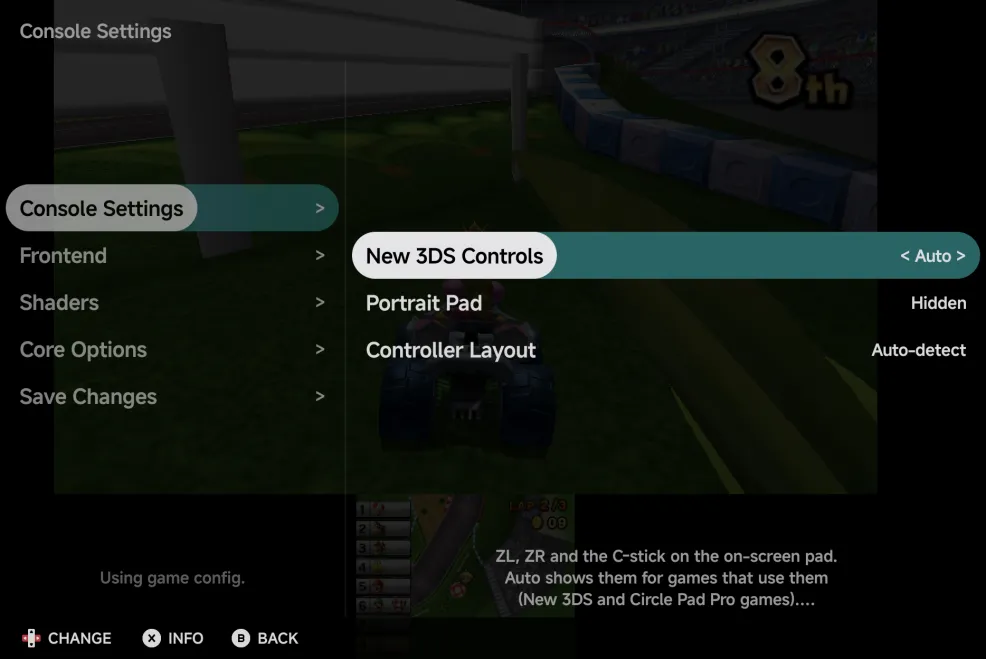
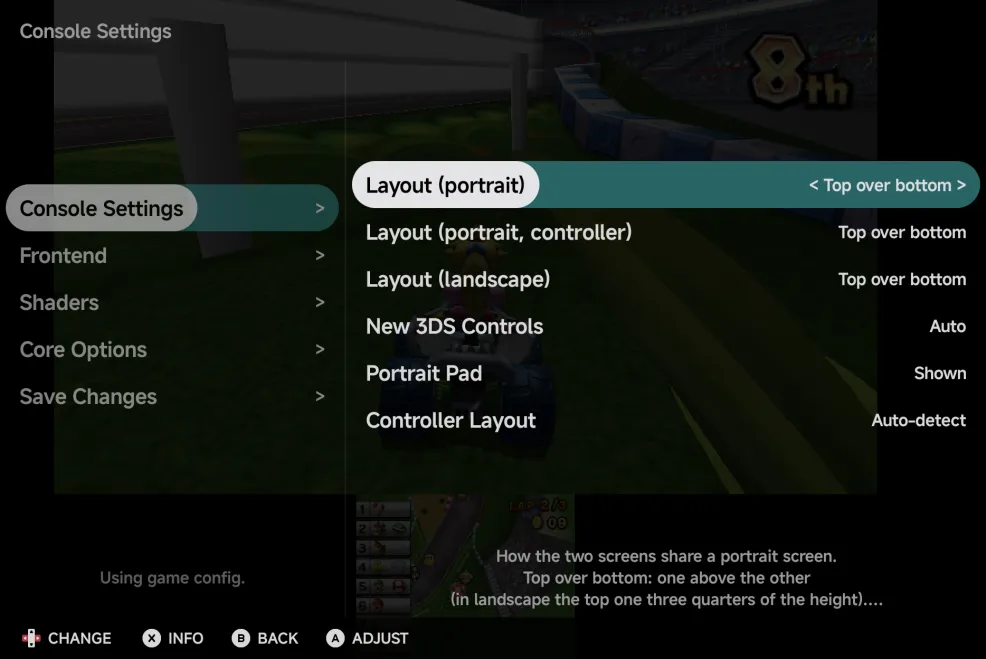
docs(mobile): 3DS layout per orientation, as on the DS
The 3DS Console Settings table and screenshot gain Layout (portrait),
Layout (portrait, controller) and Layout (landscape); Screen layouts says
each orientation keeps its own and SELECT + LEFT / RIGHT changes the one in
use; Azahar's Screen Layout core option is now locked. The in-game menu and
Emulator Settings lists include the 3DS layout rows.

diff --git a/docs/mobile/emulators/nintendo-3ds.md b/docs/mobile/emulators/nintendo-3ds.md
@@ -49,7 +49,7 @@ the 3DS's own `ZL` and `ZR`:
 | --- | --- |
 | `SELECT` + `R1`, or **SWAP** | Swap the screens. |
 | `SELECT` + `L1`, or **STYLUS** | Turn stylus mode on or off. |
-| `SELECT` + `LEFT` / `RIGHT` | Change the layout: **Top over bottom**, **Large screen**, **Side by side**, **Single screen**, and round again. |
+| `SELECT` + `LEFT` / `RIGHT` | Change the layout of the orientation you're in: **Top over bottom**, **Large screen**, **Side by side**, **Single screen**, and round again. |
 | `SELECT` + `START`, or `MENU` | Open the [in-game menu](../in-game-menu.md). |
 
 A controller adds:
@@ -88,10 +88,13 @@ Settings**, and for the console in
 value; keep it for the game or the console with
 [Save Changes](../in-game-menu.md#save-changes).
 
-![Console Settings of a 3DS game in landscape: New 3DS Controls, Portrait Pad and Controller Layout](../../assets/screenshots/mobile/3ds-console-settings.webp){ .nx-wide }
+![Console Settings of a 3DS game in landscape: the three Layout rows, New 3DS Controls, Portrait Pad and Controller Layout](../../assets/screenshots/mobile/3ds-console-settings.webp){ .nx-wide }
 
 | Row | Values | Default | See |
 | --- | --- | --- | --- |
+| **Layout (portrait)** | Top over bottom, Large screen, Side by side, Single screen | Top over bottom | [Screen layouts](#screen-layouts) |
+| **Layout (portrait, controller)** | The same | Top over bottom | [Screen layouts](#screen-layouts) |
+| **Layout (landscape)** | The same | Top over bottom | [Screen layouts](#screen-layouts) |
 | **New 3DS Controls** | Auto, On, Off | Auto | [New 3DS controls](#new-3ds-controls) |
 | **Portrait Pad** | Shown, Hidden | Shown | [Portrait pad](#portrait-pad) |
 | **Controller Layout** | Auto-detect, Xbox (A at the bottom), Nintendo (A on the right) | Auto-detect | [Controls](../controls.md#controller-buttons) |
@@ -117,8 +120,13 @@ Settings (see [Graphics API](index.md#graphics-api)).
 The pictures are in portrait; landscape draws the same layouts across the
 wider screen. **SWAP** (or `SELECT` + `R1`) swaps which screen is the big
 or upper one, in every layout.
-`SELECT` + `LEFT` / `RIGHT` saves the layout for the game straight away,
-without Save Changes.
+
+As on the DS, each orientation keeps its own layout: **Layout (portrait)**
+and **Layout (landscape)** in [Console Settings](#console-settings), all
+**Top over bottom** by default. With a controller connected the on-screen
+pad goes away in portrait and **Layout (portrait, controller)** is used.
+`SELECT` + `LEFT` / `RIGHT` changes the one you're in and saves it for the
+game straight away, without Save Changes.
 
 ### Portrait pad
 
@@ -135,9 +143,8 @@ Touch follows the [touch rule](#touch): swap the bottom screen up with
 controller connected the buttons hide.
 
 ??? info "More detail"
-    - The layout is Azahar's **Screen Layout** option, so you can also set it
-      in **Core Options**, or for the console in
-      [Emulator Settings](../emulator-settings.md).
+    - The app sets Azahar's own **Screen Layout** option from the layout rows,
+      so in **Core Options** it shows locked.
     - **Screen Swap Mode** in **Core Options** sets whether the swap toggles
       (the default) or lasts only while you hold the buttons.
 

diff --git a/docs/mobile/in-game-menu.md b/docs/mobile/in-game-menu.md
@@ -155,7 +155,7 @@ The console's own rows. `LEFT` / `RIGHT` change a value.
 | --- | --- | --- | --- |
 | **Controller Type** | Sega Genesis, Sega CD, 32X | Auto, 3 buttons, 6 buttons | Auto |
 | **Controller Layout** | Every console | Auto-detect, Xbox (A at the bottom), Nintendo (A on the right) | Auto-detect |
-| **Layout (portrait)** and the other screen rows | Nintendo DS | See [Nintendo DS](emulators/nintendo-ds.md) | |
+| **Layout (portrait)** and the other screen rows | Nintendo DS, Nintendo 3DS | See [Nintendo DS](emulators/nintendo-ds.md) and [Nintendo 3DS](emulators/nintendo-3ds.md) | |
 | **New 3DS Controls** | Nintendo 3DS | Auto, On, Off | Auto |
 | **Portrait Pad** | Nintendo DS, Nintendo 3DS | Shown, Hidden | Shown |
 | **Wii Controller**, **Motion Controls** | Nintendo Wii | See [Nintendo Wii & GameCube](emulators/wii-gamecube.md#wii-controls) | Auto |

diff --git a/docs/mobile/emulator-settings.md b/docs/mobile/emulator-settings.md
@@ -46,8 +46,8 @@ What you set here is the console's setting, the same as the in-game menu's
 
     - **Console settings** holds **Controller Layout** for every console,
       **Controller Type** for Sega Genesis, Sega CD and Sega 32X, the
-      **Layout** and **Big Screen** rows for Nintendo DS, **New 3DS Controls**
-      for Nintendo 3DS, **Portrait Pad** for both, and the Wii's rows
+      **Layout** and **Big Screen** rows for Nintendo DS, the **Layout** rows and
+      **New 3DS Controls** for Nintendo 3DS, **Portrait Pad** for both, and the Wii's rows
       ([Nintendo Wii & GameCube](emulators/wii-gamecube.md#console-settings)).
       The start-only rows are **Graphics API**
       ([Graphics API](emulators/index.md#graphics-api)), and the Wii's **Wii
